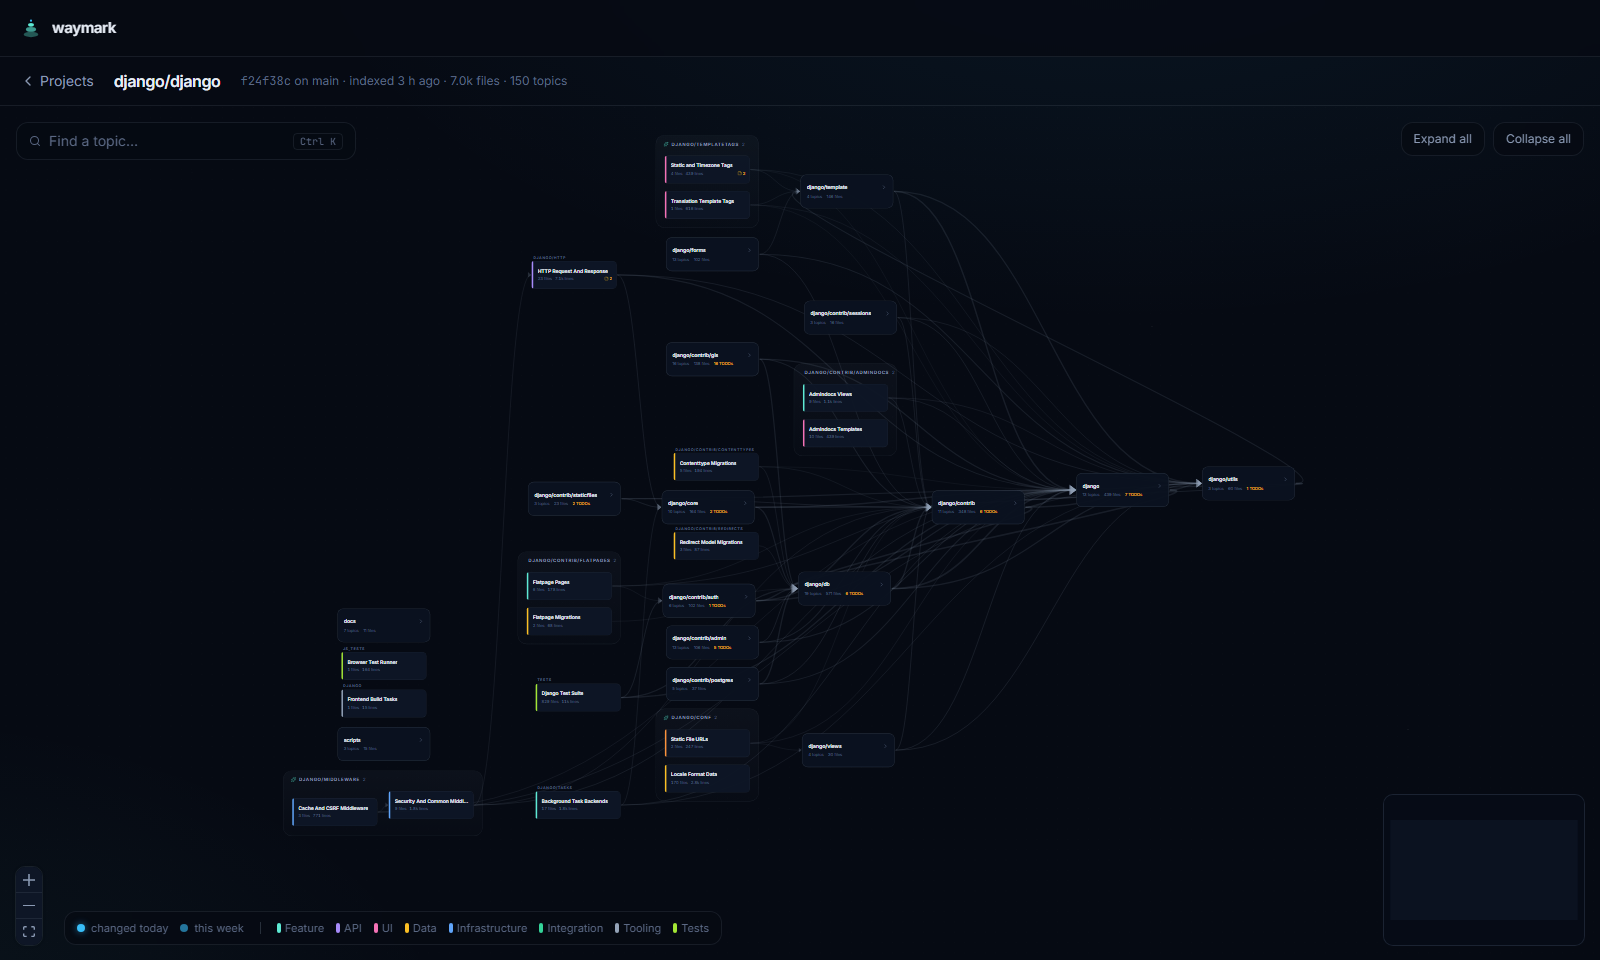
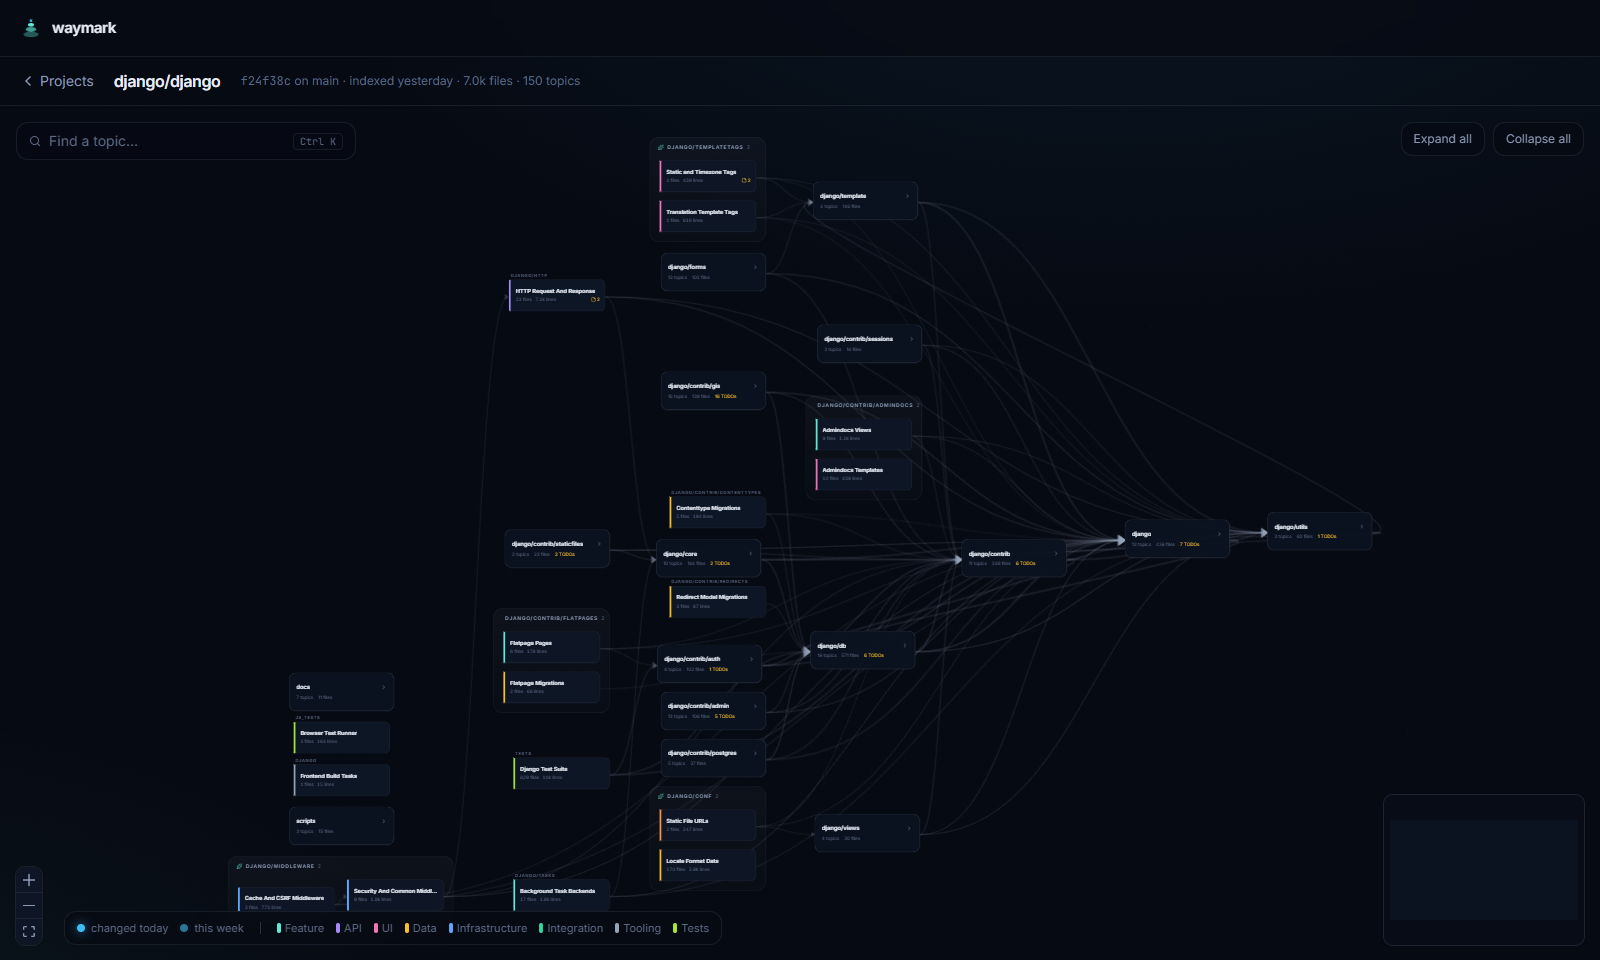
docs: document the overview, worker layout, and their measurements

diff --git a/docs/ARCHITECTURE.md b/docs/ARCHITECTURE.md
@@ -321,7 +321,8 @@ Costs are for the first build. Later builds re-describe only topics that changed
 
 A local web app (`apps/web`, Next.js 16 App Router) that reads the same Postgres the worker
 writes. Pages are server components that query `packages/db/src/dashboard.ts` directly; the map
-itself is a client component (React Flow 12, ELK layered layout). It binds to `127.0.0.1` and has no
+itself is a client component (React Flow 12, ELK layered layout in a Web Worker), and the welcome
+screen draws every project as a 3D constellation (three.js). It binds to `127.0.0.1` and has no
 authentication yet, so it is for your own machine only; hosted access comes with sign-in later.
 
 ```mermaid
@@ -329,7 +330,7 @@ flowchart LR
   DB[("Postgres")] --> RM["dashboard.ts<br/>latest snapshot with topics<br/>+ commits of the last 30 days"]
   RM --> P["Server component<br/>serialises one RepositoryMap"]
   P --> G["graph.ts (pure)<br/>regions · groups · collapse<br/>edge aggregation + pruning"]
-  G --> L["layout.ts<br/>ELK layered, left → right"]
+  G --> L["layout.worker.ts<br/>ELK layered, left → right<br/>off the main thread"]
   L --> RF["React Flow canvas<br/>focus · search · panel"]
   RF -->|"topic click"| API["/api/topic<br/>files · TODOs · commits"]
   API --> DB
@@ -341,7 +342,7 @@ flowchart LR
 |---|---|---|
 | A package with 150 topics is one blob | Packages over 24 topics are split by directory; a level every topic shares is skipped; areas still over 24 are split one level deeper | `regions()` |
 | A monorepo has hundreds of packages and fixtures | Over 32 regions, regions are grouped by the finest directory level that keeps ≤ 32 entries, recursively; siblings no directory separates are cut into about √n alphabetical ranges ("k00 … k06"), so no expansion ever shows more than 32 entries | `regionEntries()` · `bucket()` |
-| Laying out everything freezes the tab | ELK runs on the main thread (~4 s for 300 nodes on next.js), so "Expand all" becomes "Expand a level" above 300 topics and stops when the next level would exceed 250 nodes; clicking a region or searching still opens anything | `expandOneLevel()` · `MAX_VISIBLE_NODES` |
+| Laying out a large view freezes the tab | ELK runs in a Web Worker; a newer request terminates the busy worker instead of queueing behind it. Above 300 topics "Expand all" becomes "Expand a level", which stops before 600 visible nodes (drawing, not layout, is the limit then); clicking a region or searching still opens anything | `layout-client.ts` · `expandOneLevel()` · `MAX_VISIBLE_NODES` |
 | The first view of a big repository | Over 60 topics, every group and every region with more than two topics starts collapsed; a collapsed node shows its topic, file, and TODO counts and when it last changed | `initialCollapsed()` |
 | 2,000 import edges are a hairball | Edges are summed onto whatever is visible (a collapsed region is one endpoint) and pruned to each node's 3 strongest; the selected topic always shows all of its edges | `visibleGraph()` · `pruneEdges()` |
 | Finding one topic among 900 | Search ranks name prefix > name substring > directory or summary; choosing a result expands its group path, re-lays out, and centres on it | `searchTopics()` · `containersOfTopic()` |
@@ -375,6 +376,34 @@ search ranking); `layout.test.ts` checks children stay inside their region, depe
 to right, and malformed input is laid out instead of throwing. The read models are tested against
 Postgres in `tests/e2e/src/dashboard.test.ts` (snapshot choice, 30-day window, case-insensitive
 lookup, a 3,000-file commit, foreign snapshots).
+
+### The overview: projects as constellations (1c-2)
+
+Each project is a cluster of stars, one per topic (its 360 largest), with its strongest imports as
+faint lines. Stars changed today glow sky-blue and pulse, this week's glow teal, quiet ones stay dim.
+The layout is pure and deterministic (`constellation.ts`), so a project keeps its place in the sky:
+
+- **Clusters** sit on a golden-angle spiral, most recently pushed first, each at the first spot that
+  overlaps no earlier one; a cluster's radius grows with the cube root of its topic count.
+- **Stars** fill a ball evenly, largest at the inner part. Linked stars are drawn together by springs
+  with a rest length, and a hub's pull is divided by its link count, so a topic that everything
+  imports doesn't swallow its neighbours into one white blot.
+- **Labels** are real links positioned over their clusters every frame and pushed apart where they
+  would overlap, so the sky is usable by keyboard and screen readers.
+- **Fallbacks:** without WebGL there is no sky; with `prefers-reduced-motion` it starts hidden (and
+  never rotates or pulses when shown). A toggle remembers the choice. The project cards are always
+  there below. three.js (~250 KB gzipped) loads only when the sky is shown, and a crash inside the
+  sky (no GPU context, a chunk that fails to load) hides it instead of taking the page down.
+- **Cost:** the page ships only what the sky draws per star (its size and when it last changed,
+  no names), for the 60 most recently pushed projects. Off screen the sky renders no frames; with
+  reduced motion it renders only when something changes. 500 projects place in ~0.4 s.
+
+### Measured (1c-2)
+
+| What | Before | After |
+|---|---|---|
+| Expand one level of vercel/next.js (16 → 113 nodes) | ~1.8 s with the page frozen | 0.4–0.9 s, longest frame ~110 ms |
+| Expand to 595 nodes | refused (would freeze for > 10 s) | 1.6 s, longest frame ~260 ms |
 
 ## 7. Engines (planned)
 

diff --git a/docs/ROADMAP.md b/docs/ROADMAP.md
@@ -8,8 +8,8 @@ maintainer has reviewed the previous one.
 | **0 · Foundation** | Monorepo, CI, Postgres + Redis, GitHub webhook → queue → worker → DB | Every push is captured reliably and idempotently | ✅ merged |
 | **1a · Indexer** | Tarball download via the GitHub App, JS/TS · Python · Go import graph, modules, dependencies, frameworks, TODO markers, snapshots; debounced re-index on push, initial index on install | The structural map data exists for every repository | ✅ merged |
 | **1b · Topics** | Louvain clustering into topics with stable ids; Claude Haiku 5.5 (or Ollama) names and summarises them under a monthly budget; descriptions reused until a topic changes | Map nodes people recognise ("Session Auth", "Stripe Webhooks") | ✅ merged |
-| **1c-1 · Local dashboard** | Next.js + React Flow map on 127.0.0.1: project list, regions and directory groups, search, topic panel, `pnpm demo` | See every project as a map | 🚧 in review |
-| **1c-2 · 3D overview and polish** | 3D "observatory" overview on the welcome screen; graph layout in a Web Worker so large maps never block the page | First public demo | 📋 next |
+| **1c-1 · Local dashboard** | Next.js + React Flow map on 127.0.0.1: project list, regions and directory groups, search, topic panel, `pnpm demo` | See every project as a map | ✅ merged |
+| **1c-2 · 3D overview and polish** | 3D "observatory" overview on the welcome screen; graph layout in a Web Worker so large maps never block the page | First public demo | 🚧 in review |
 | **1c-3 · Hosting and GitHub sign-in** | "Sign in with GitHub" through the existing GitHub App; each user sees only the repositories they installed it on, indexed automatically on install and push; one-command Docker Compose setup, tested through a tunnel, then a small VPS with a domain and HTTPS | Waymark runs 24/7 on your own repositories | 📋 |
 | **1d · Ask Waymark (Telegram)** | A Telegram bot backed by an agent: Claude (Haiku by default, within the monthly budget) with read-only tools over topics, commits, and TODOs. Only structure is sent, never code | "Where is auth in this repo?", "What did I do yesterday?" | 📋 |
 | **1e · Where you left off** | Recently touched topics, open branches and PRs, new TODOs, WIP commits; on the dashboard and on request in Telegram | Answers "where was I?" | 📋 |

diff --git a/README.md b/README.md
@@ -54,12 +54,15 @@ reasoning behind each decision, is in [docs/ARCHITECTURE.md](docs/ARCHITECTURE.m
 
 <!-- screenshots -->
 <p align="center">
-  <img src="docs/images/map-django.png" alt="django/django: 150 AI-named topics grouped by directory, live import edges" width="100%">
+  <img src="docs/images/overview.png" alt="Welcome screen: three projects as constellations of topics, the one changed this week glowing, project cards below" width="100%">
 </p>
 
 | | |
 |---|---|
-| <img src="docs/images/projects.png" alt="Project list with weekly activity and TODO counts"> | <img src="docs/images/topic-panel.png" alt="Topic panel: AI summary, dependencies, TODOs, recent commits, files"> |
+| <img src="docs/images/map-django.png" alt="django/django: 150 AI-named topics grouped by directory, live import edges"> | <img src="docs/images/topic-panel.png" alt="Topic panel: AI summary, dependencies, TODOs, recent commits, files"> |
+
+The welcome screen shows every project as a constellation: one star per topic, glowing where you
+worked today or this week; drag to orbit, click a project to open its map.
 
 Each project is a map: topics are nodes, imports are edges, and topics changed in the last day or
 week glow. Large repositories open as a handful of regions (packages, or directories inside one)
@@ -150,7 +153,7 @@ browser):
 
 | Quality gate | Value |
 |---|---|
-| Unit tests | 276 (no infrastructure required), incl. timed adversarial-input regressions |
+| Unit tests | 295 (no infrastructure required), incl. timed adversarial-input regressions |
 | Integration tests | 40 (real Postgres + Redis, in a separate `<db>_test` database; incl. failure recovery, index scheduling, topic building, budget across workers, dashboard read models) |
 | Type safety | `strict` + `noUncheckedIndexedAccess` + `exactOptionalPropertyTypes` |
 | Build step | none: Node runs the TypeScript sources directly |
